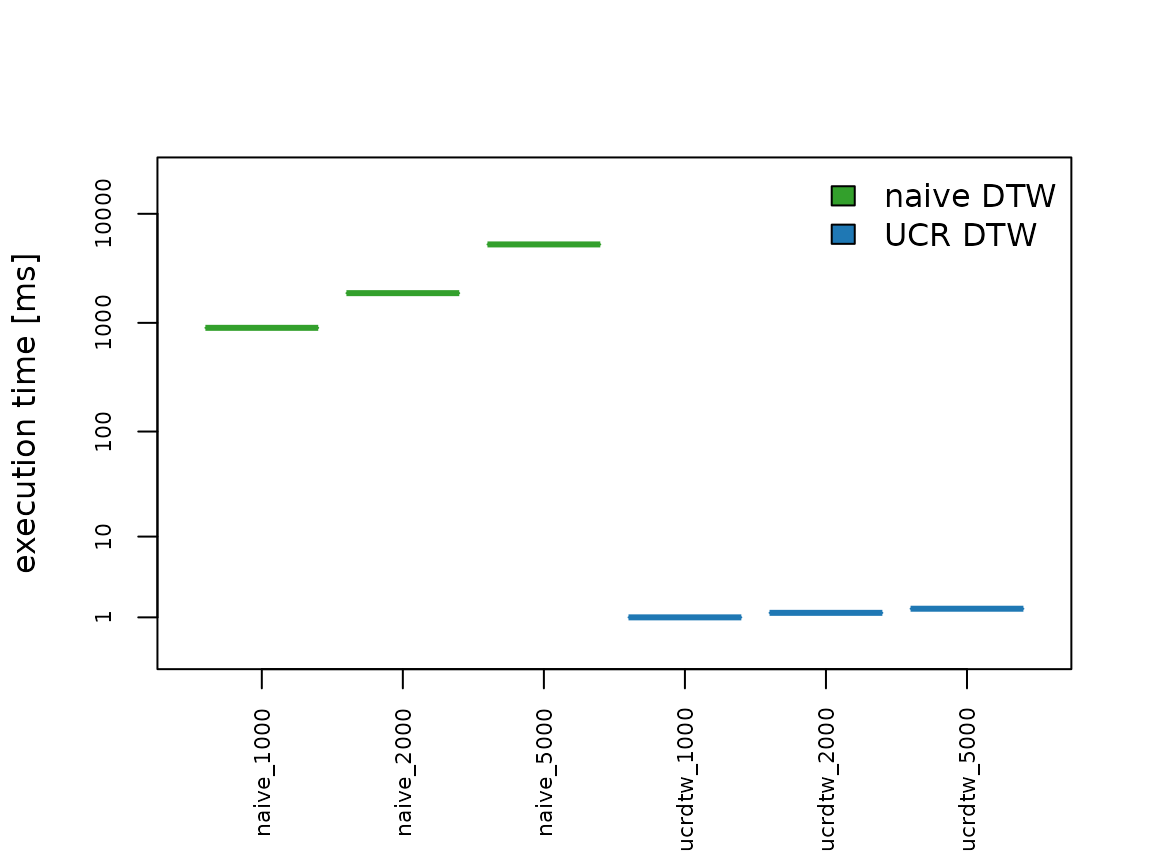
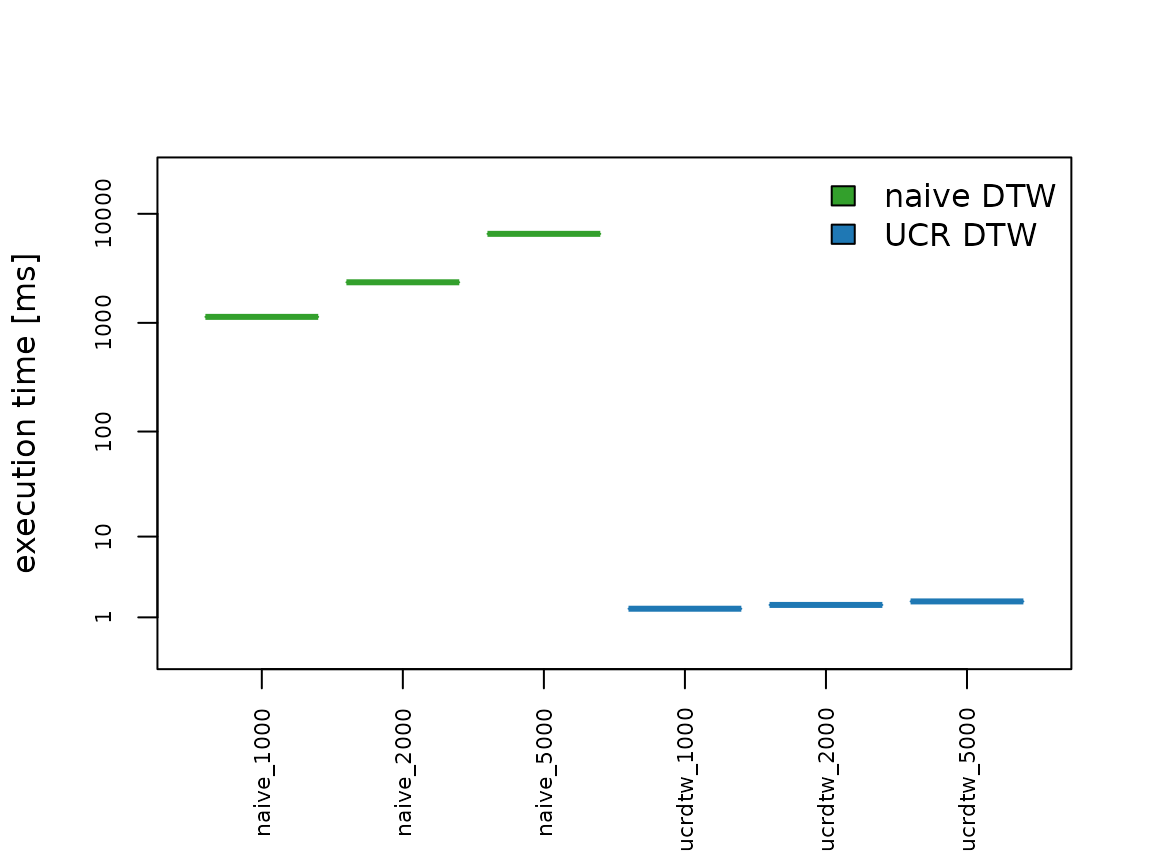
Deploying to gh-pages from @ pboesu/rucrdtw@e42dacf759f81a3392cc6823436f168b0f82df44 🚀

diff --git a/articles/using_rucrdtw.html b/articles/using_rucrdtw.html
@@ -143,14 +143,14 @@ methods for the search.</p>
 <div class="sourceCode" id="cb5"><pre class="downlit sourceCode r">
 <code class="sourceCode R"><span><span class="fu"><a href="https://rdrr.io/r/base/system.time.html" class="external-link">system.time</a></span><span class="op">(</span><span class="va">dtw_search</span> <span class="op">&lt;-</span> <span class="fu"><a href="../reference/ucrdtw_vv.html">ucrdtw_vv</a></span><span class="op">(</span>data <span class="op">=</span> <span class="va">rwalk</span>, query <span class="op">=</span> <span class="va">query</span>, dtwwindow <span class="op">=</span> <span class="fl">0.05</span><span class="op">)</span><span class="op">)</span></span></code></pre></div>
 <pre><code><span><span class="co">##    user  system elapsed </span></span>
-<span><span class="co">##   1.677   0.000   1.677</span></span></code></pre>
+<span><span class="co">##   2.183   0.003   2.186</span></span></code></pre>
 <div class="sourceCode" id="cb7"><pre class="downlit sourceCode r">
 <code class="sourceCode R"><span><span class="fu"><a href="https://rdrr.io/r/base/all.equal.html" class="external-link">all.equal</a></span><span class="op">(</span><span class="va">qstart</span>, <span class="va">dtw_search</span><span class="op">$</span><span class="va">location</span><span class="op">)</span></span></code></pre></div>
 <pre><code><span><span class="co">## [1] TRUE</span></span></code></pre>
 <div class="sourceCode" id="cb9"><pre class="downlit sourceCode r">
 <code class="sourceCode R"><span><span class="fu"><a href="https://rdrr.io/r/base/system.time.html" class="external-link">system.time</a></span><span class="op">(</span><span class="va">ed_search</span> <span class="op">&lt;-</span> <span class="fu"><a href="../reference/ucred_vv.html">ucred_vv</a></span><span class="op">(</span>data <span class="op">=</span> <span class="va">rwalk</span>, query <span class="op">=</span> <span class="va">query</span><span class="op">)</span><span class="op">)</span></span></code></pre></div>
 <pre><code><span><span class="co">##    user  system elapsed </span></span>
-<span><span class="co">##   0.840   0.004   0.844</span></span></code></pre>
+<span><span class="co">##   1.148   0.000   1.149</span></span></code></pre>
 <div class="sourceCode" id="cb11"><pre class="downlit sourceCode r">
 <code class="sourceCode R"><span><span class="fu"><a href="https://rdrr.io/r/base/all.equal.html" class="external-link">all.equal</a></span><span class="op">(</span><span class="va">qstart</span>, <span class="va">ed_search</span><span class="op">$</span><span class="va">location</span><span class="op">)</span></span></code></pre></div>
 <pre><code><span><span class="co">## [1] TRUE</span></span></code></pre>

diff --git a/authors.html b/authors.html
@@ -91,7 +91,11 @@
     </div>
 
 
-    <p>Boersch-Supan (2016). rucrdtw:  Fast time series subsequence search in R. The Journal of Open Source Software URL http://doi.org/10.21105/joss.00100</p>
+    <p>Boersch-Supan P (2016).
+“rucrdtw: Fast time series subsequence search in R.”
+<em>The Journal of Open Source Software</em>, <b>1</b>, 1–2.
+<a href="https://doi.org/10.21105/joss.00100" class="external-link">doi:10.21105/joss.00100</a>, <a href="http://doi.org/10.21105/joss.00100" class="external-link">http://doi.org/10.21105/joss.00100</a>. 
+</p>
     <pre>@Article{,
   title = {{rucrdtw}: Fast time series subsequence search in R},
   author = {Philipp Boersch-Supan},
@@ -103,7 +107,12 @@
   doi = {10.21105/joss.00100},
   url = {http://doi.org/10.21105/joss.00100},
 }</pre>
-    <p>Rakthanmanon et al. (2012). Searching and mining trillions of time series subsequences under dynamic time warping. SIGKDD URL http://doi.org/10.1145/2339530.2339576</p>
+    <p>Rakthanmanon T, Campana B, Mueen A, Batista G, Westover B, Zhu Q, Zakaria J, Keogh E (2012).
+“Searching and mining trillions of time series subsequences under dynamic time warping.”
+In <em>Proceedings of the 18th ACM SIGKDD international conference on Knowledge discovery and data mining</em>, 262–270.
+ACM.
+<a href="https://doi.org/10.1145/2339530.2339576" class="external-link">doi:10.1145/2339530.2339576</a>, <a href="http://doi.org/10.1145/2339530.2339576" class="external-link">http://doi.org/10.1145/2339530.2339576</a>. 
+</p>
     <pre>@InProceedings{,
   title = {Searching and mining trillions of time series subsequences under dynamic time warping},
   author = {Thanawin Rakthanmanon and Bilson Campana and Abdullah Mueen and Gustavo Batista and Brandon Westover and Qiang Zhu and Jesin Zakaria and Eamonn Keogh},

diff --git a/reference/rucrdtw-package.html b/reference/rucrdtw-package.html
@@ -82,8 +82,10 @@ vignette("using_rucrdtw", package = "rucrdtw")'><!-- mathjax --><script src="htt
 
     <div id="references">
     <h2>References</h2>
-    <p>Rakthanmanon, Thanawin, Bilson Campana, Abdullah Mueen, Gustavo Batista, Brandon Westover, Qiang Zhu, Jesin Zakaria, and Eamonn Keogh. 2012. Searching and Mining Trillions of Time Series Subsequences Under Dynamic Time Warping. In Proceedings of the 18th ACM SIGKDD International Conference on Knowledge Discovery and Data Mining, 262-70. ACM. doi:<a href="http://dx.doi.org/10.1145/2339530.2339576" class="external-link">10.1145/2339530.2339576</a>.</p>
-<p>Giorgino, Toni (2009). Computing and Visualizing Dynamic Time Warping Alignments in R: The dtw Package. Journal of Statistical Software, 31(7), 1-24, doi:<a href="http://dx.doi.org/10.18637/jss.v031.i07" class="external-link">10.18637/jss.v031.i07</a>.</p>
+    <p>Rakthanmanon, Thanawin, Bilson Campana, Abdullah Mueen, Gustavo Batista, Brandon Westover, Qiang Zhu, Jesin Zakaria, and Eamonn Keogh. 2012. Searching and Mining Trillions of Time Series Subsequences Under Dynamic Time Warping. In Proceedings of the 18th ACM SIGKDD International Conference on Knowledge Discovery and Data Mining, 262-70. ACM. doi:<a href="https://doi.org/10.1145/2339530.2339576" class="external-link">doi:10.1145/2339530.2339576</a>
+.</p>
+<p>Giorgino, Toni (2009). Computing and Visualizing Dynamic Time Warping Alignments in R: The dtw Package. Journal of Statistical Software, 31(7), 1-24, <a href="https://doi.org/10.18637/jss.v031.i07" class="external-link">doi:10.18637/jss.v031.i07</a>
+.</p>
 <p>UCR Suite Website: <a href="http://www.cs.ucr.edu/~eamonn/UCRsuite.html" class="external-link">http://www.cs.ucr.edu/~eamonn/UCRsuite.html</a></p>
     </div>
     <div id="see-also">

diff --git a/reference/ucrdtw_mv.html b/reference/ucrdtw_mv.html
@@ -111,7 +111,8 @@ This is useful, for example, when comparing a time-series of undetermined class 
 </ul></div>
     <div id="references">
     <h2>References</h2>
-    <p>Giorgino, Toni (2009). Computing and Visualizing Dynamic Time Warping Alignments in R: The dtw Package. Journal of Statistical Software, 31(7), 1-24, doi:<a href="http://dx.doi.org/10.18637/jss.v031.i07" class="external-link">10.18637/jss.v031.i07</a>.</p>
+    <p>Giorgino, Toni (2009). Computing and Visualizing Dynamic Time Warping Alignments in R: The dtw Package. Journal of Statistical Software, 31(7), 1-24, doi:<a href="https://doi.org/10.18637/jss.v031.i07" class="external-link">doi:10.18637/jss.v031.i07</a>
+.</p>
     </div>
 
     <div id="ref-examples">
